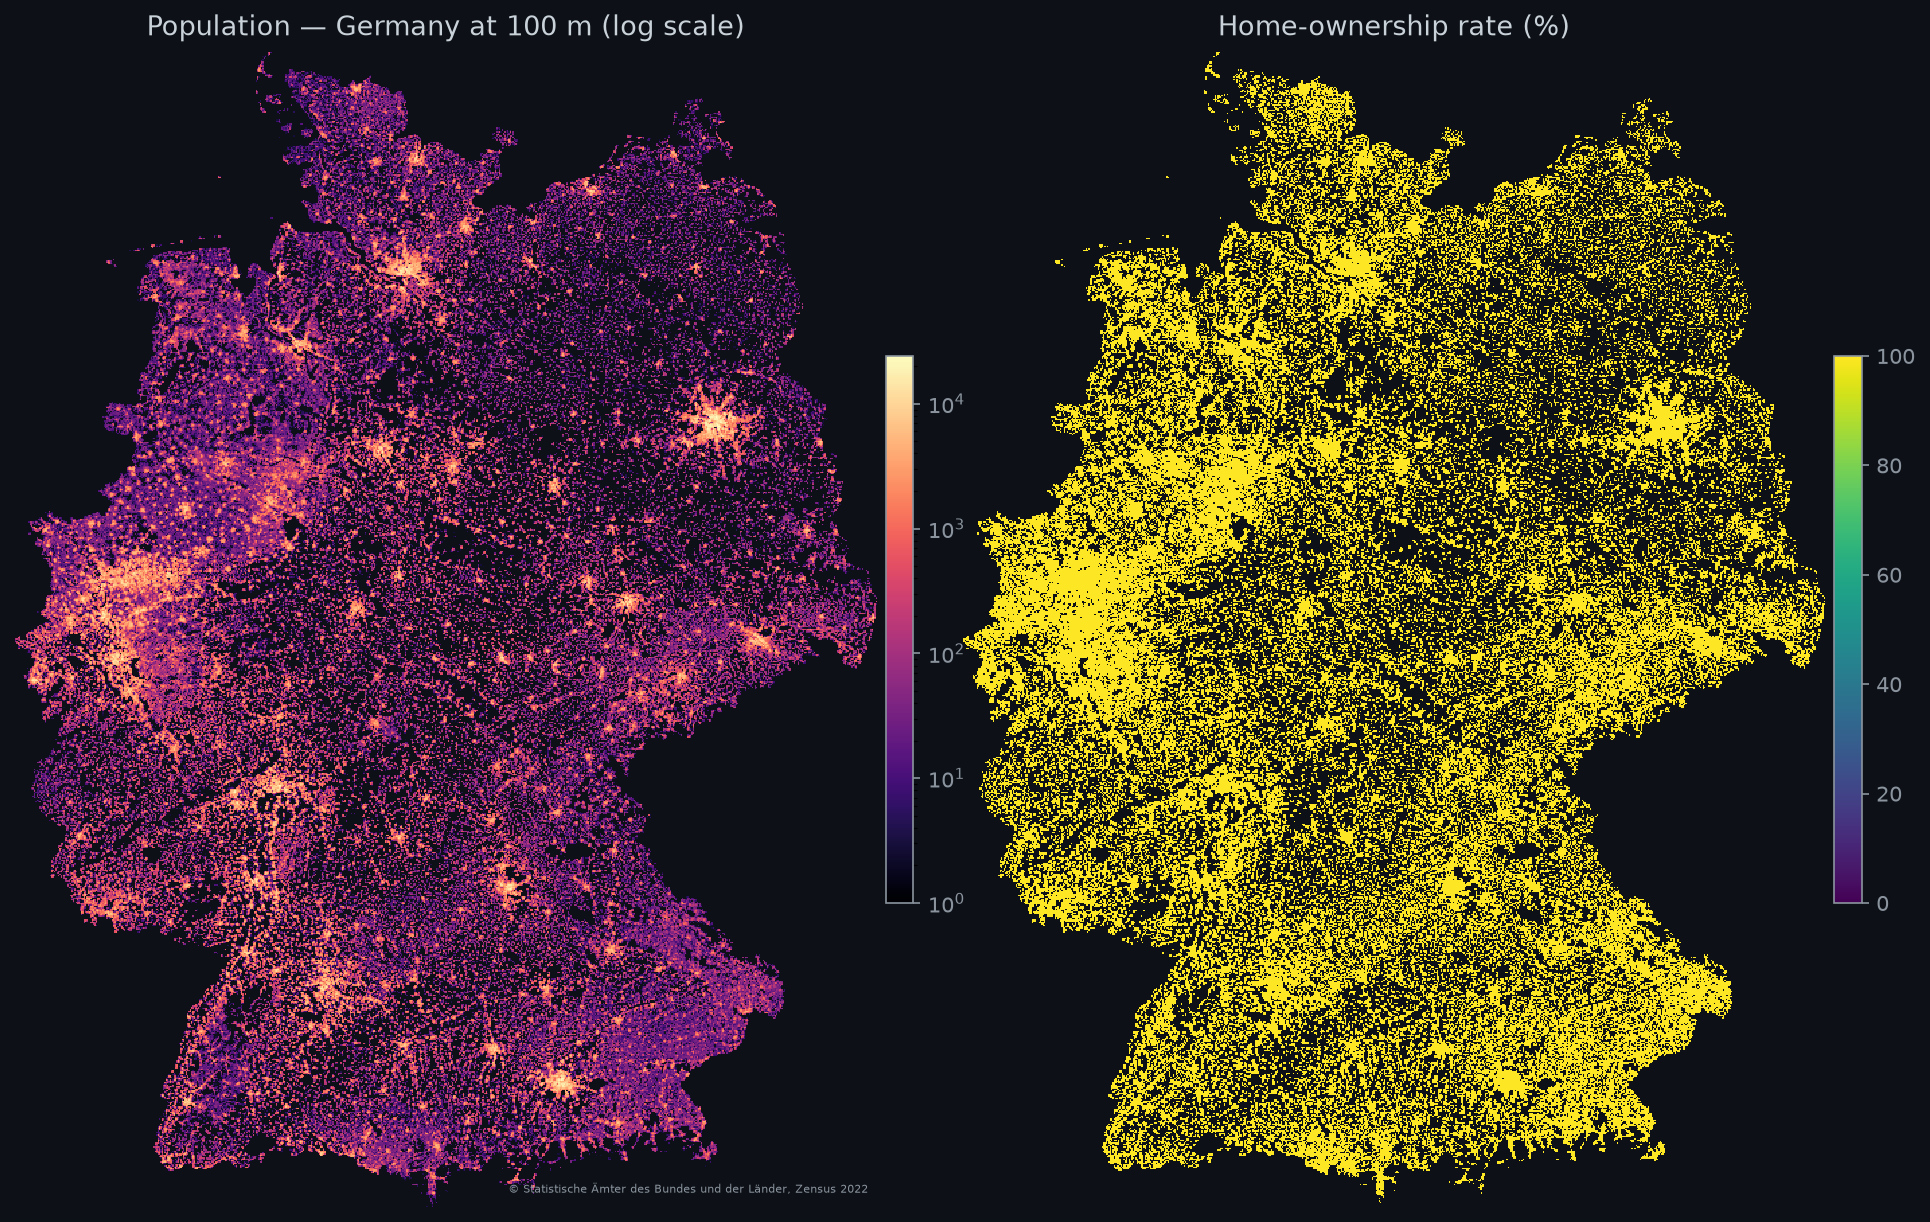
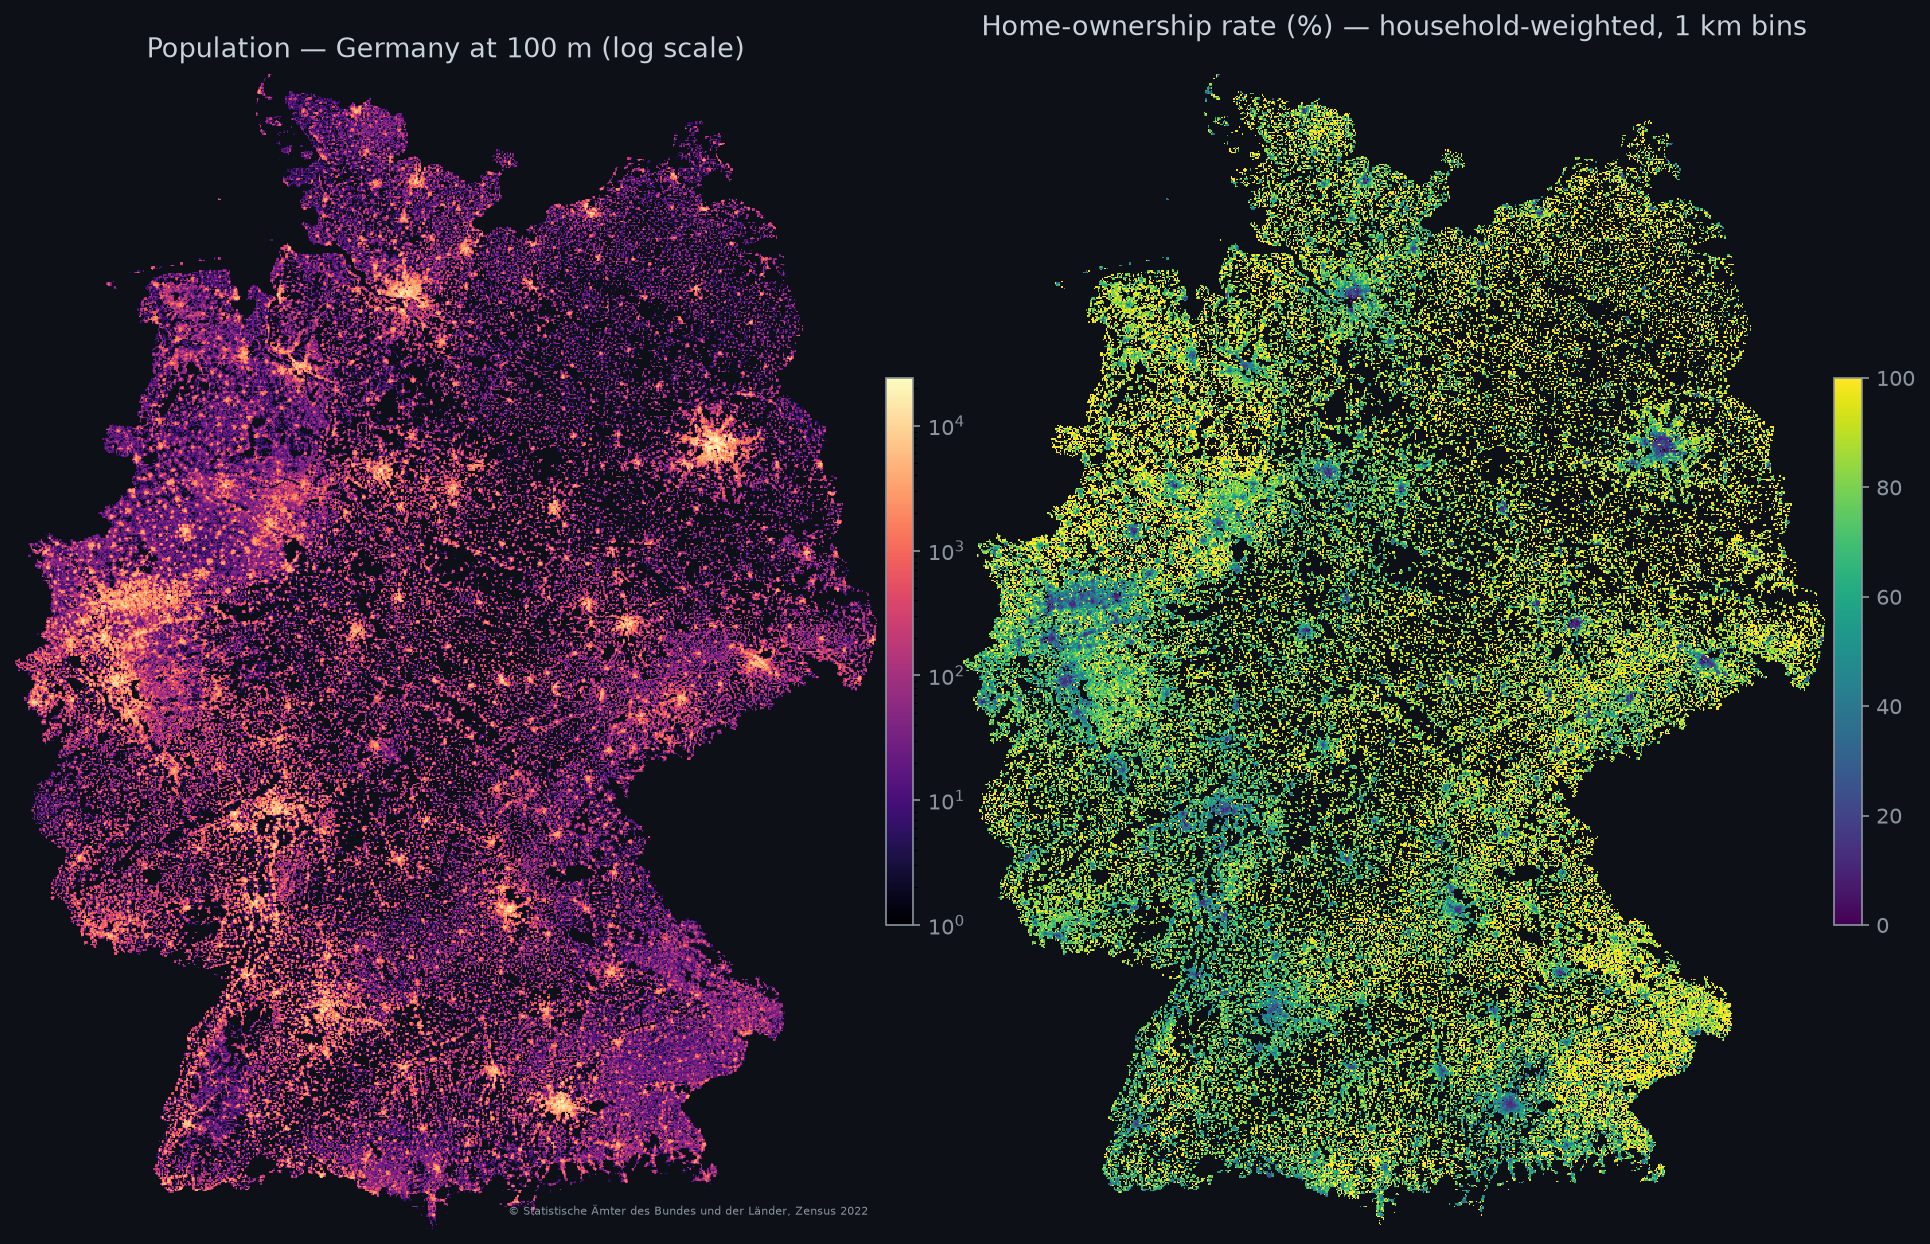
fix: hero figure ownership panel — Eigentuemerquote is already percent (was x100, saturating the colormap)

diff --git a/tools/make_hero_figure.py b/tools/make_hero_figure.py
@@ -152,8 +152,9 @@ def main():
     ax2 = axes[1]
     ax2.set_facecolor(BG)
 
+    # Eigentuemerquote is ALREADY in percent (0-100) — do not rescale.
     im2 = ax2.imshow(
-        eiq_grid * 100,  # convert fraction to percent
+        eiq_grid,
         origin="lower",
         extent=extent,
         vmin=0, vmax=100,
@@ -161,7 +162,7 @@ def main():
         aspect="equal",
         interpolation="nearest",
     )
-    ax2.set_title("Home-ownership rate (%)",
+    ax2.set_title("Home-ownership rate (%) — household-weighted, 1 km bins",
                   color=TITLE_COLOR, fontsize=13, pad=8)
     ax2.axis("off")
     cb2 = fig.colorbar(im2, ax=ax2, fraction=0.03, pad=0.01, shrink=0.7)